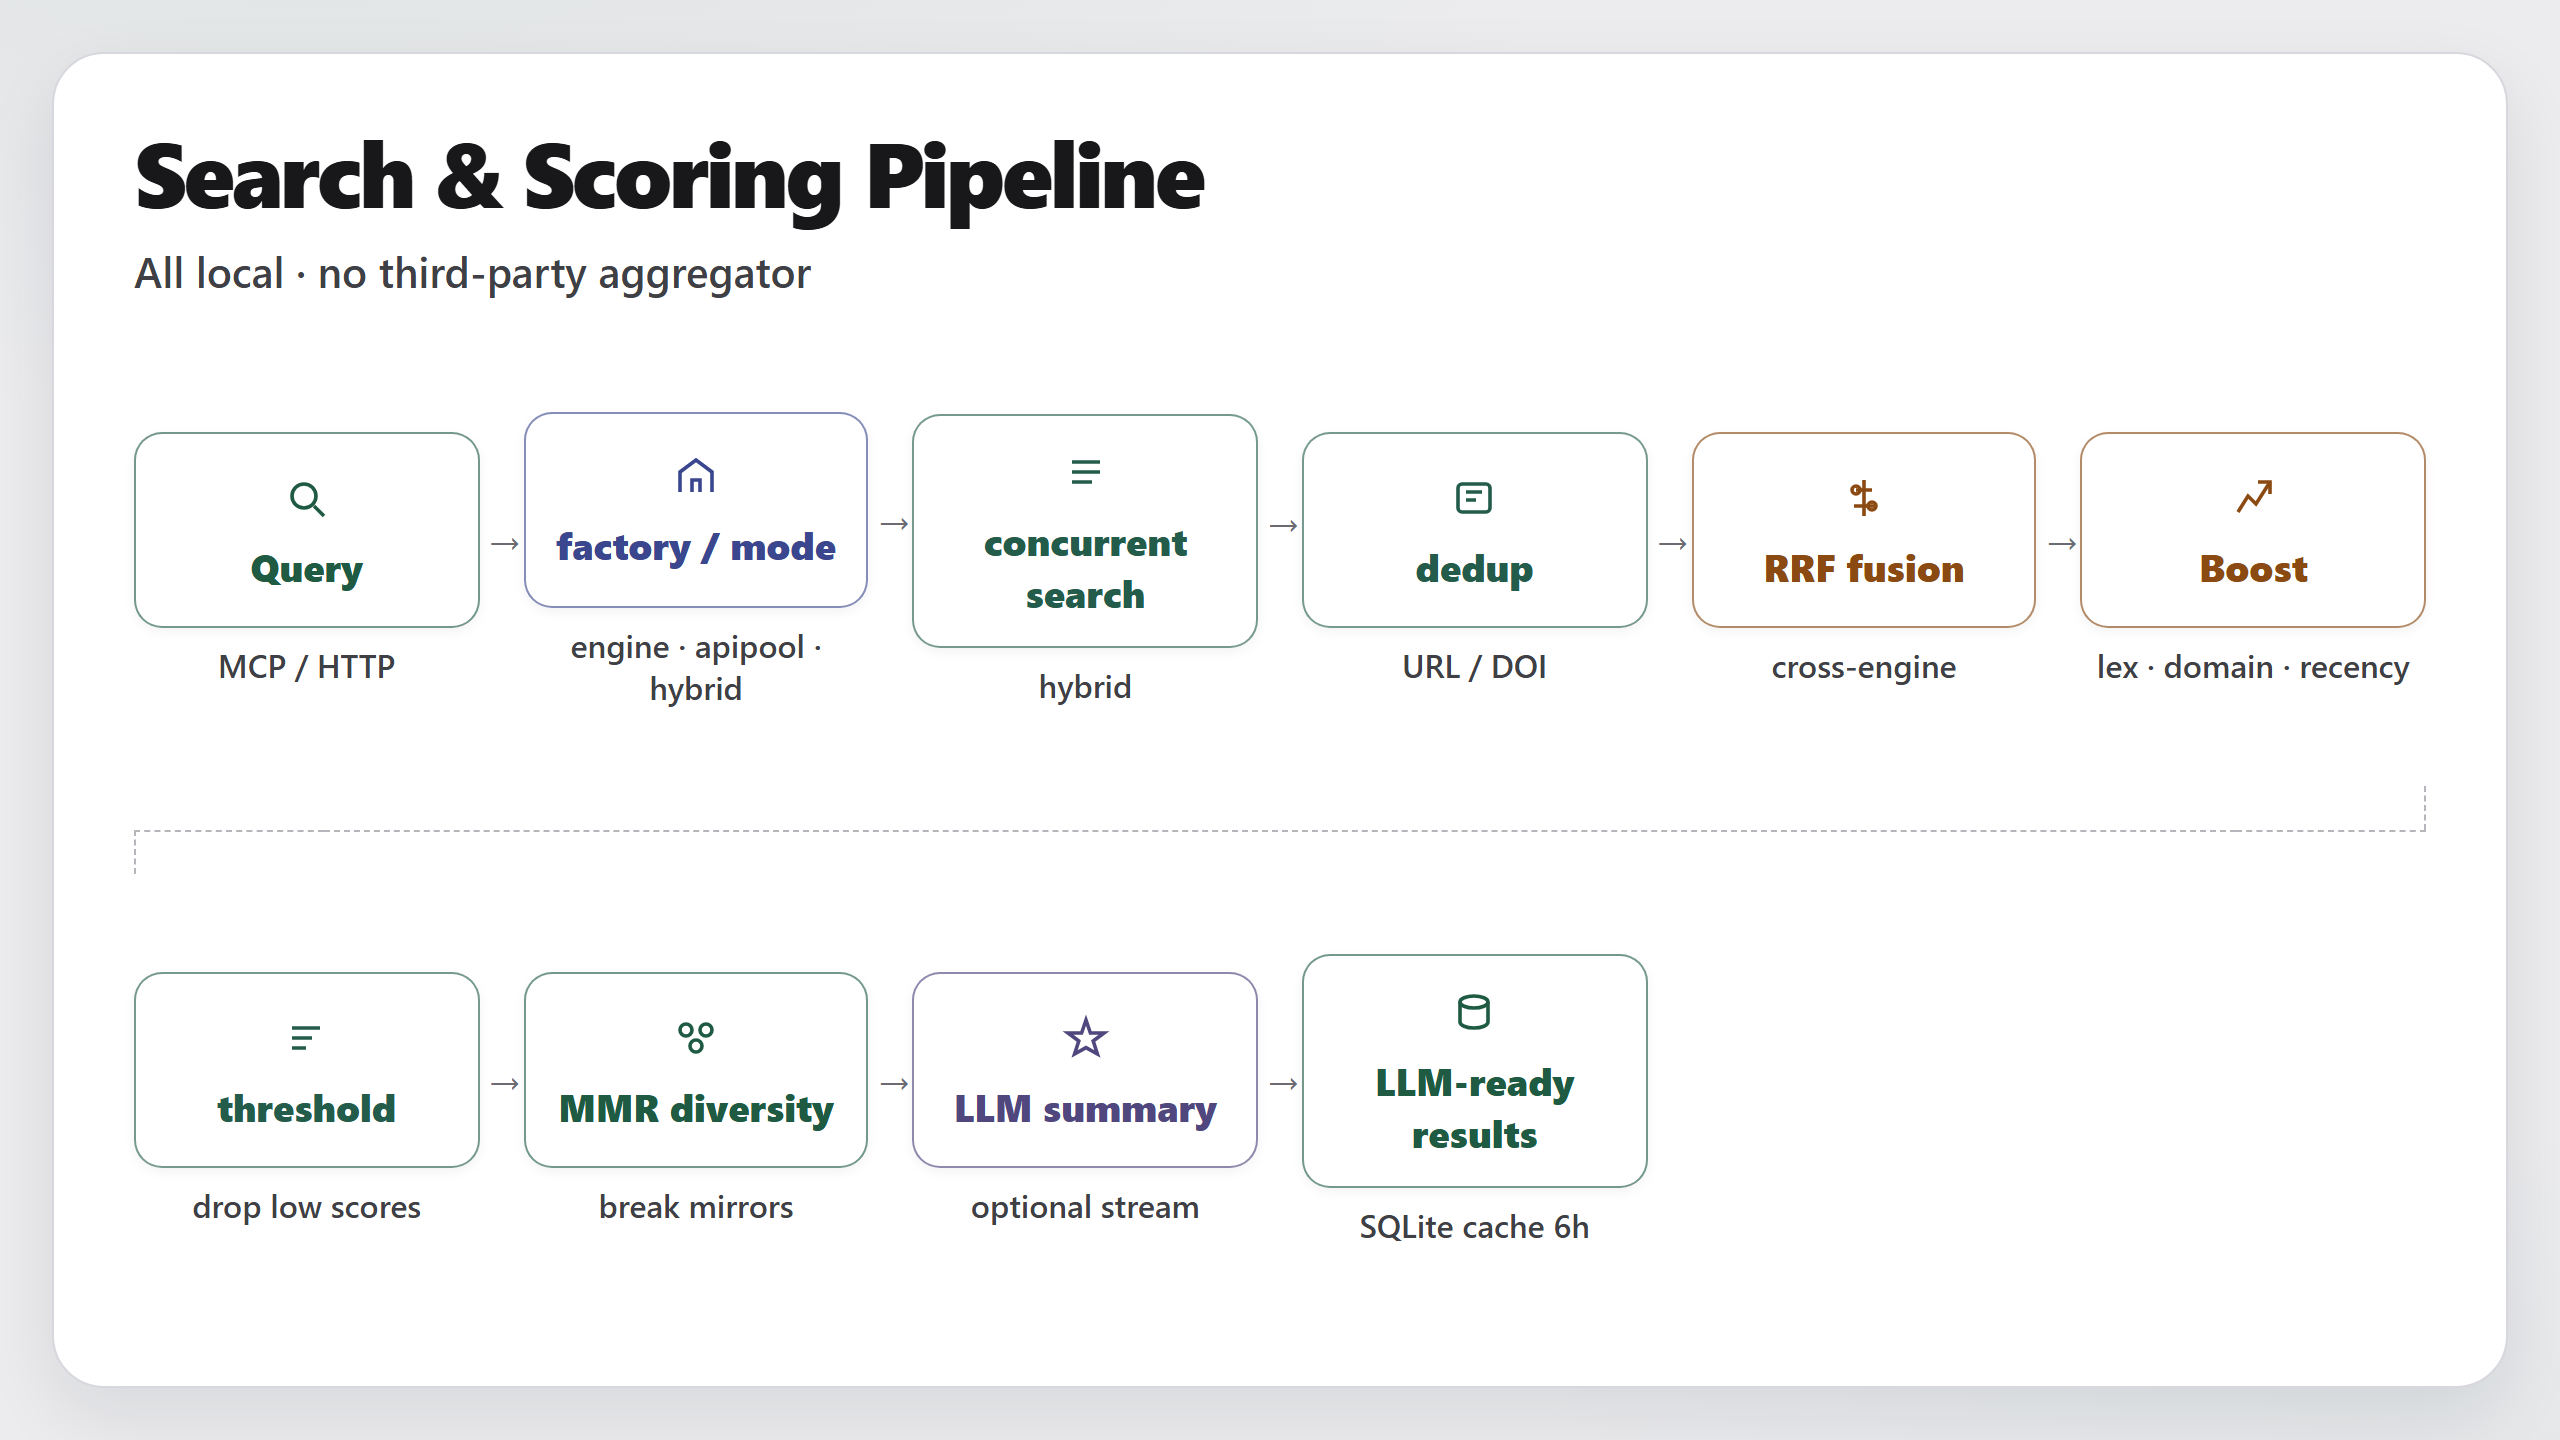
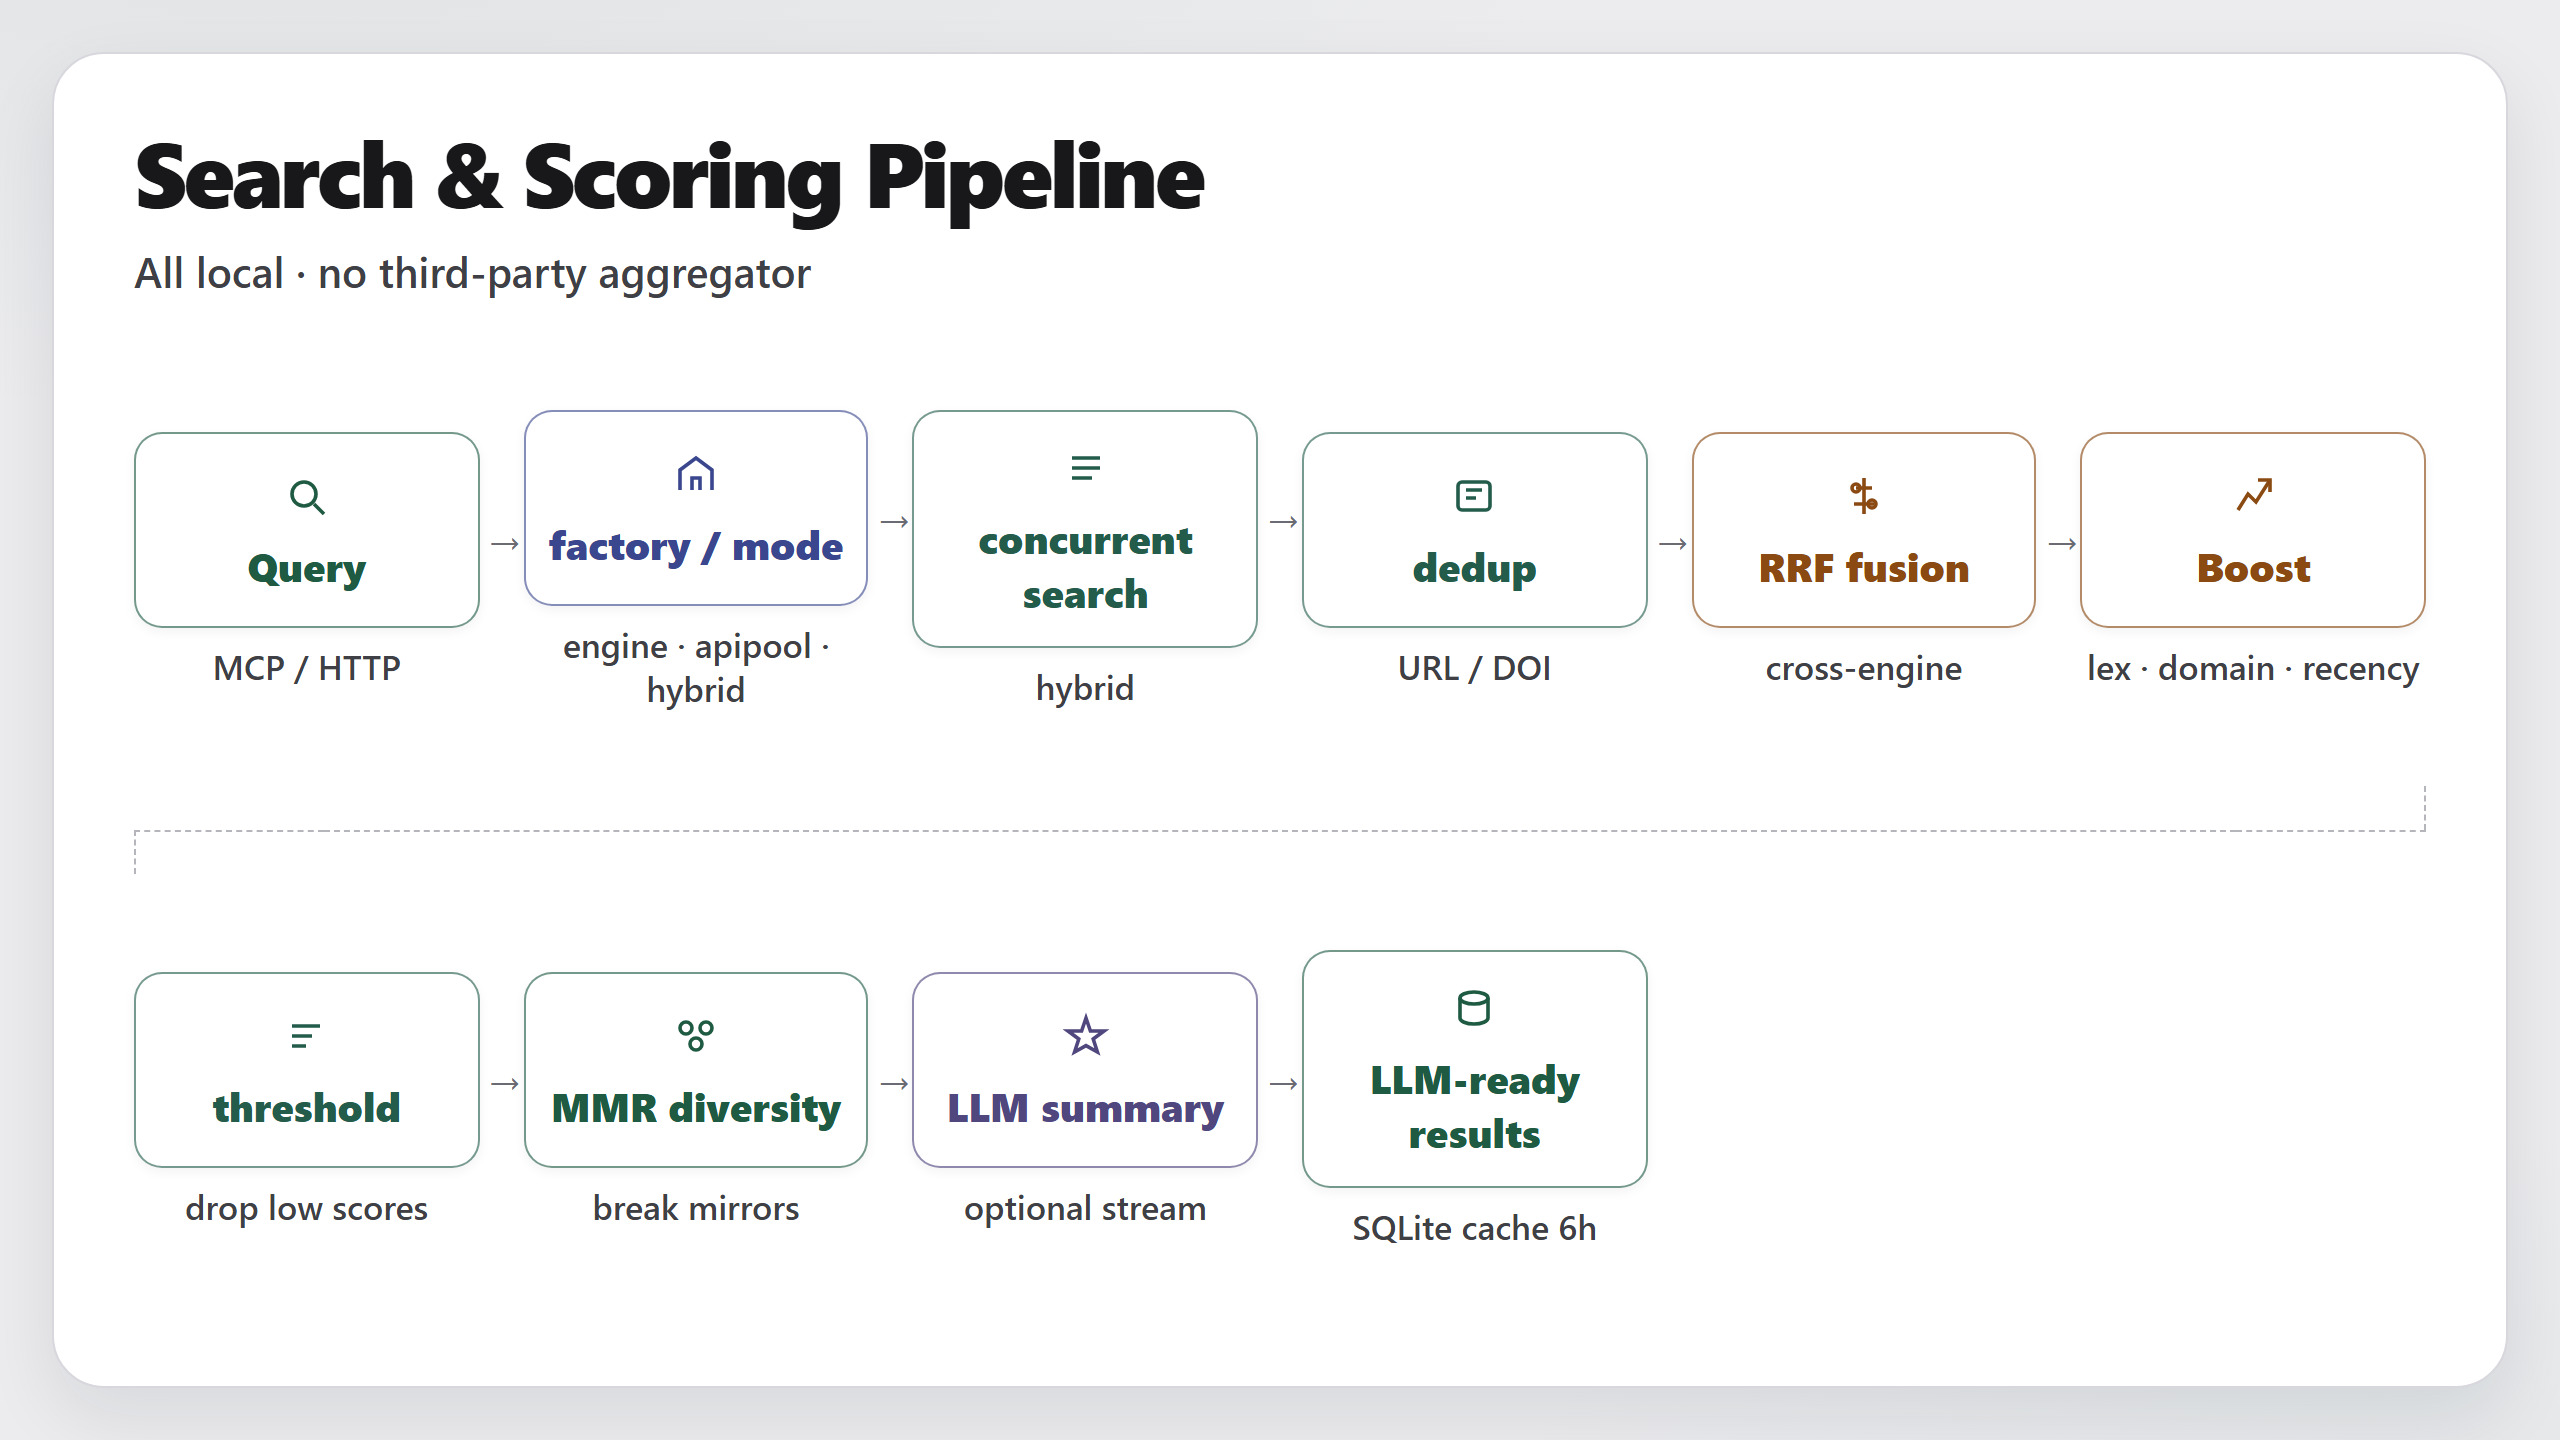
docs(images): 再放大工具链与管线正文
工具链正文 18px、管线标题 20px/说明 17px，配合 900px 展示宽度提升可读性；布局审计无裁切。

diff --git a/docs/images/src/readme-diagrams.html b/docs/images/src/readme-diagrams.html
@@ -255,7 +255,7 @@
     font-weight: 750; font-size: 18px; margin-bottom: 16px;
   }
   .tool h3 { font-size: 22px; font-weight: 800; margin-bottom: 12px; letter-spacing: -0.02em; }
-  .tool p { color: var(--muted); font-size: 17px; line-height: 1.45; font-weight: 550; }
+  .tool p { color: var(--muted); font-size: 18px; line-height: 1.45; font-weight: 550; }
   .t1 { border-color: rgba(31,90,67,0.68); }
   .t1 .n, .t1 h3 { color: var(--cyan); border-color: var(--cyan); }
   .t2 { border-color: rgba(138,74,18,0.68); }
@@ -309,8 +309,8 @@
     justify-content: center;
     box-shadow: 0 2px 6px rgba(15,23,42,0.05);
   }
-  .step h3 { font-size: 19px; font-weight: 800; }
-  .step .cap { margin-top: 8px; color: var(--muted); font-size: 16px; font-weight: 600; }
+  .step h3 { font-size: 20px; font-weight: 800; }
+  .step .cap { margin-top: 8px; color: var(--muted); font-size: 17px; font-weight: 600; }
   .step svg { width: 24px; height: 24px; }
   .s-cyan { border-color: rgba(31,90,67,0.62); color: var(--cyan); }
   .s-blue { border-color: rgba(58,71,142,0.62); color: var(--blue); }
